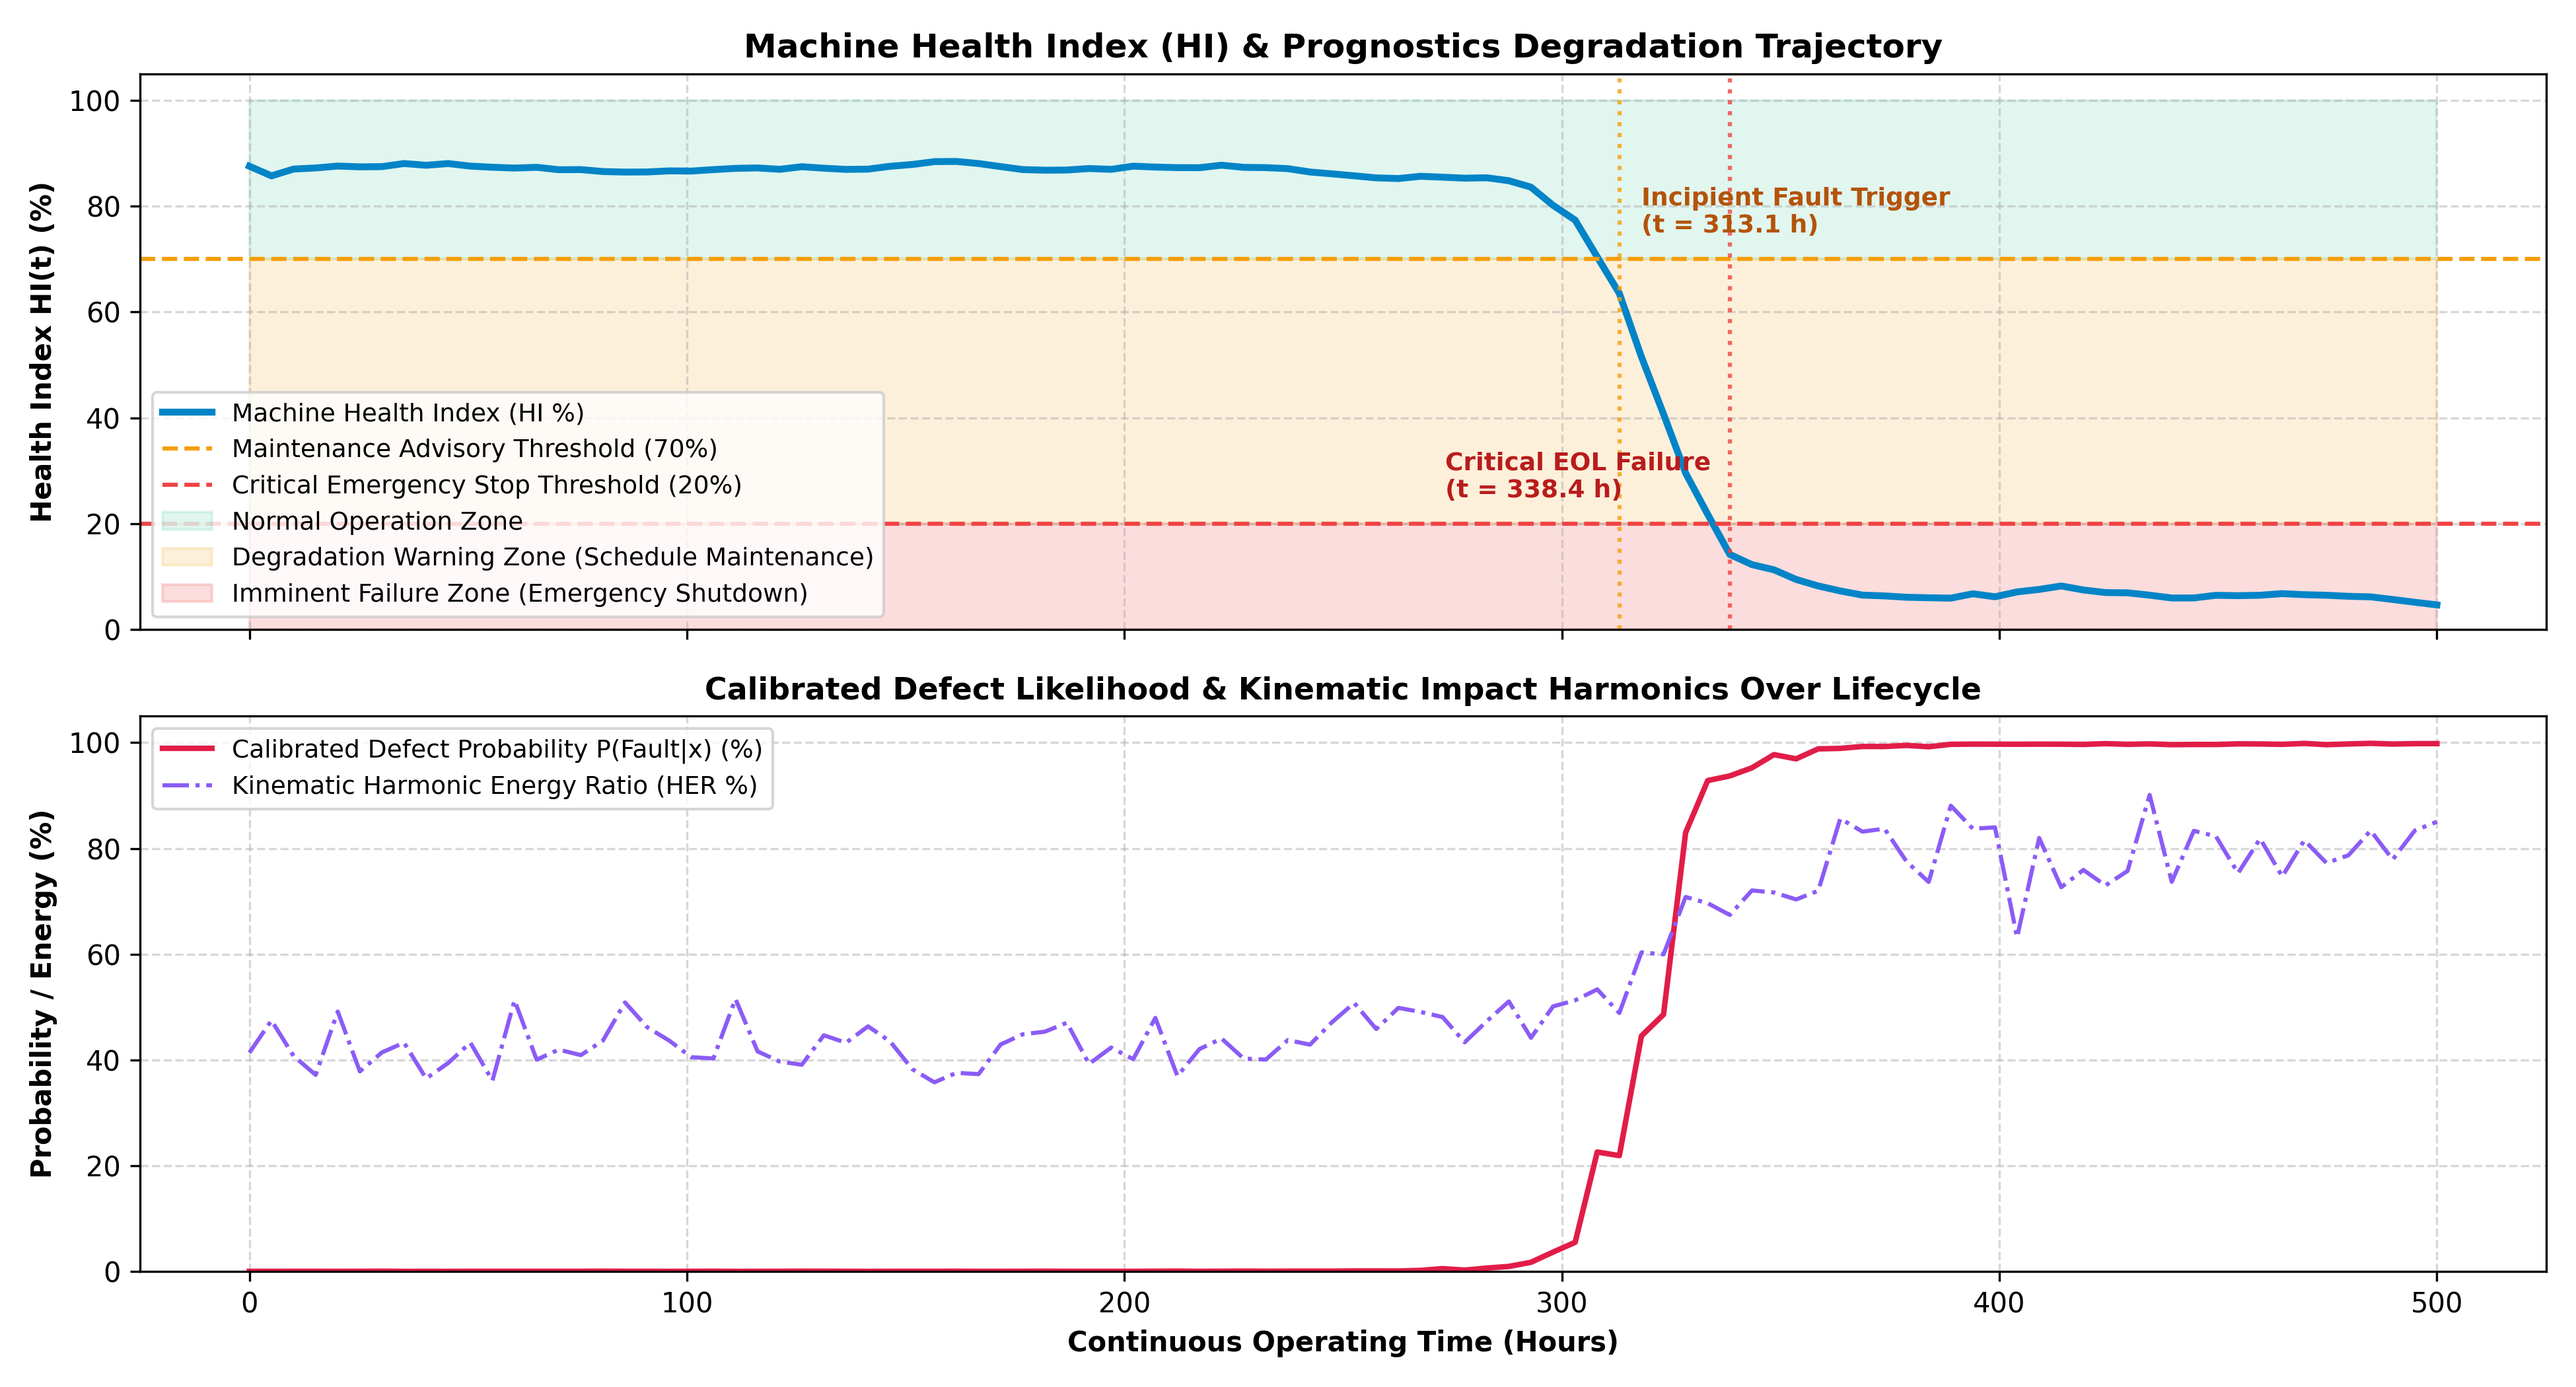
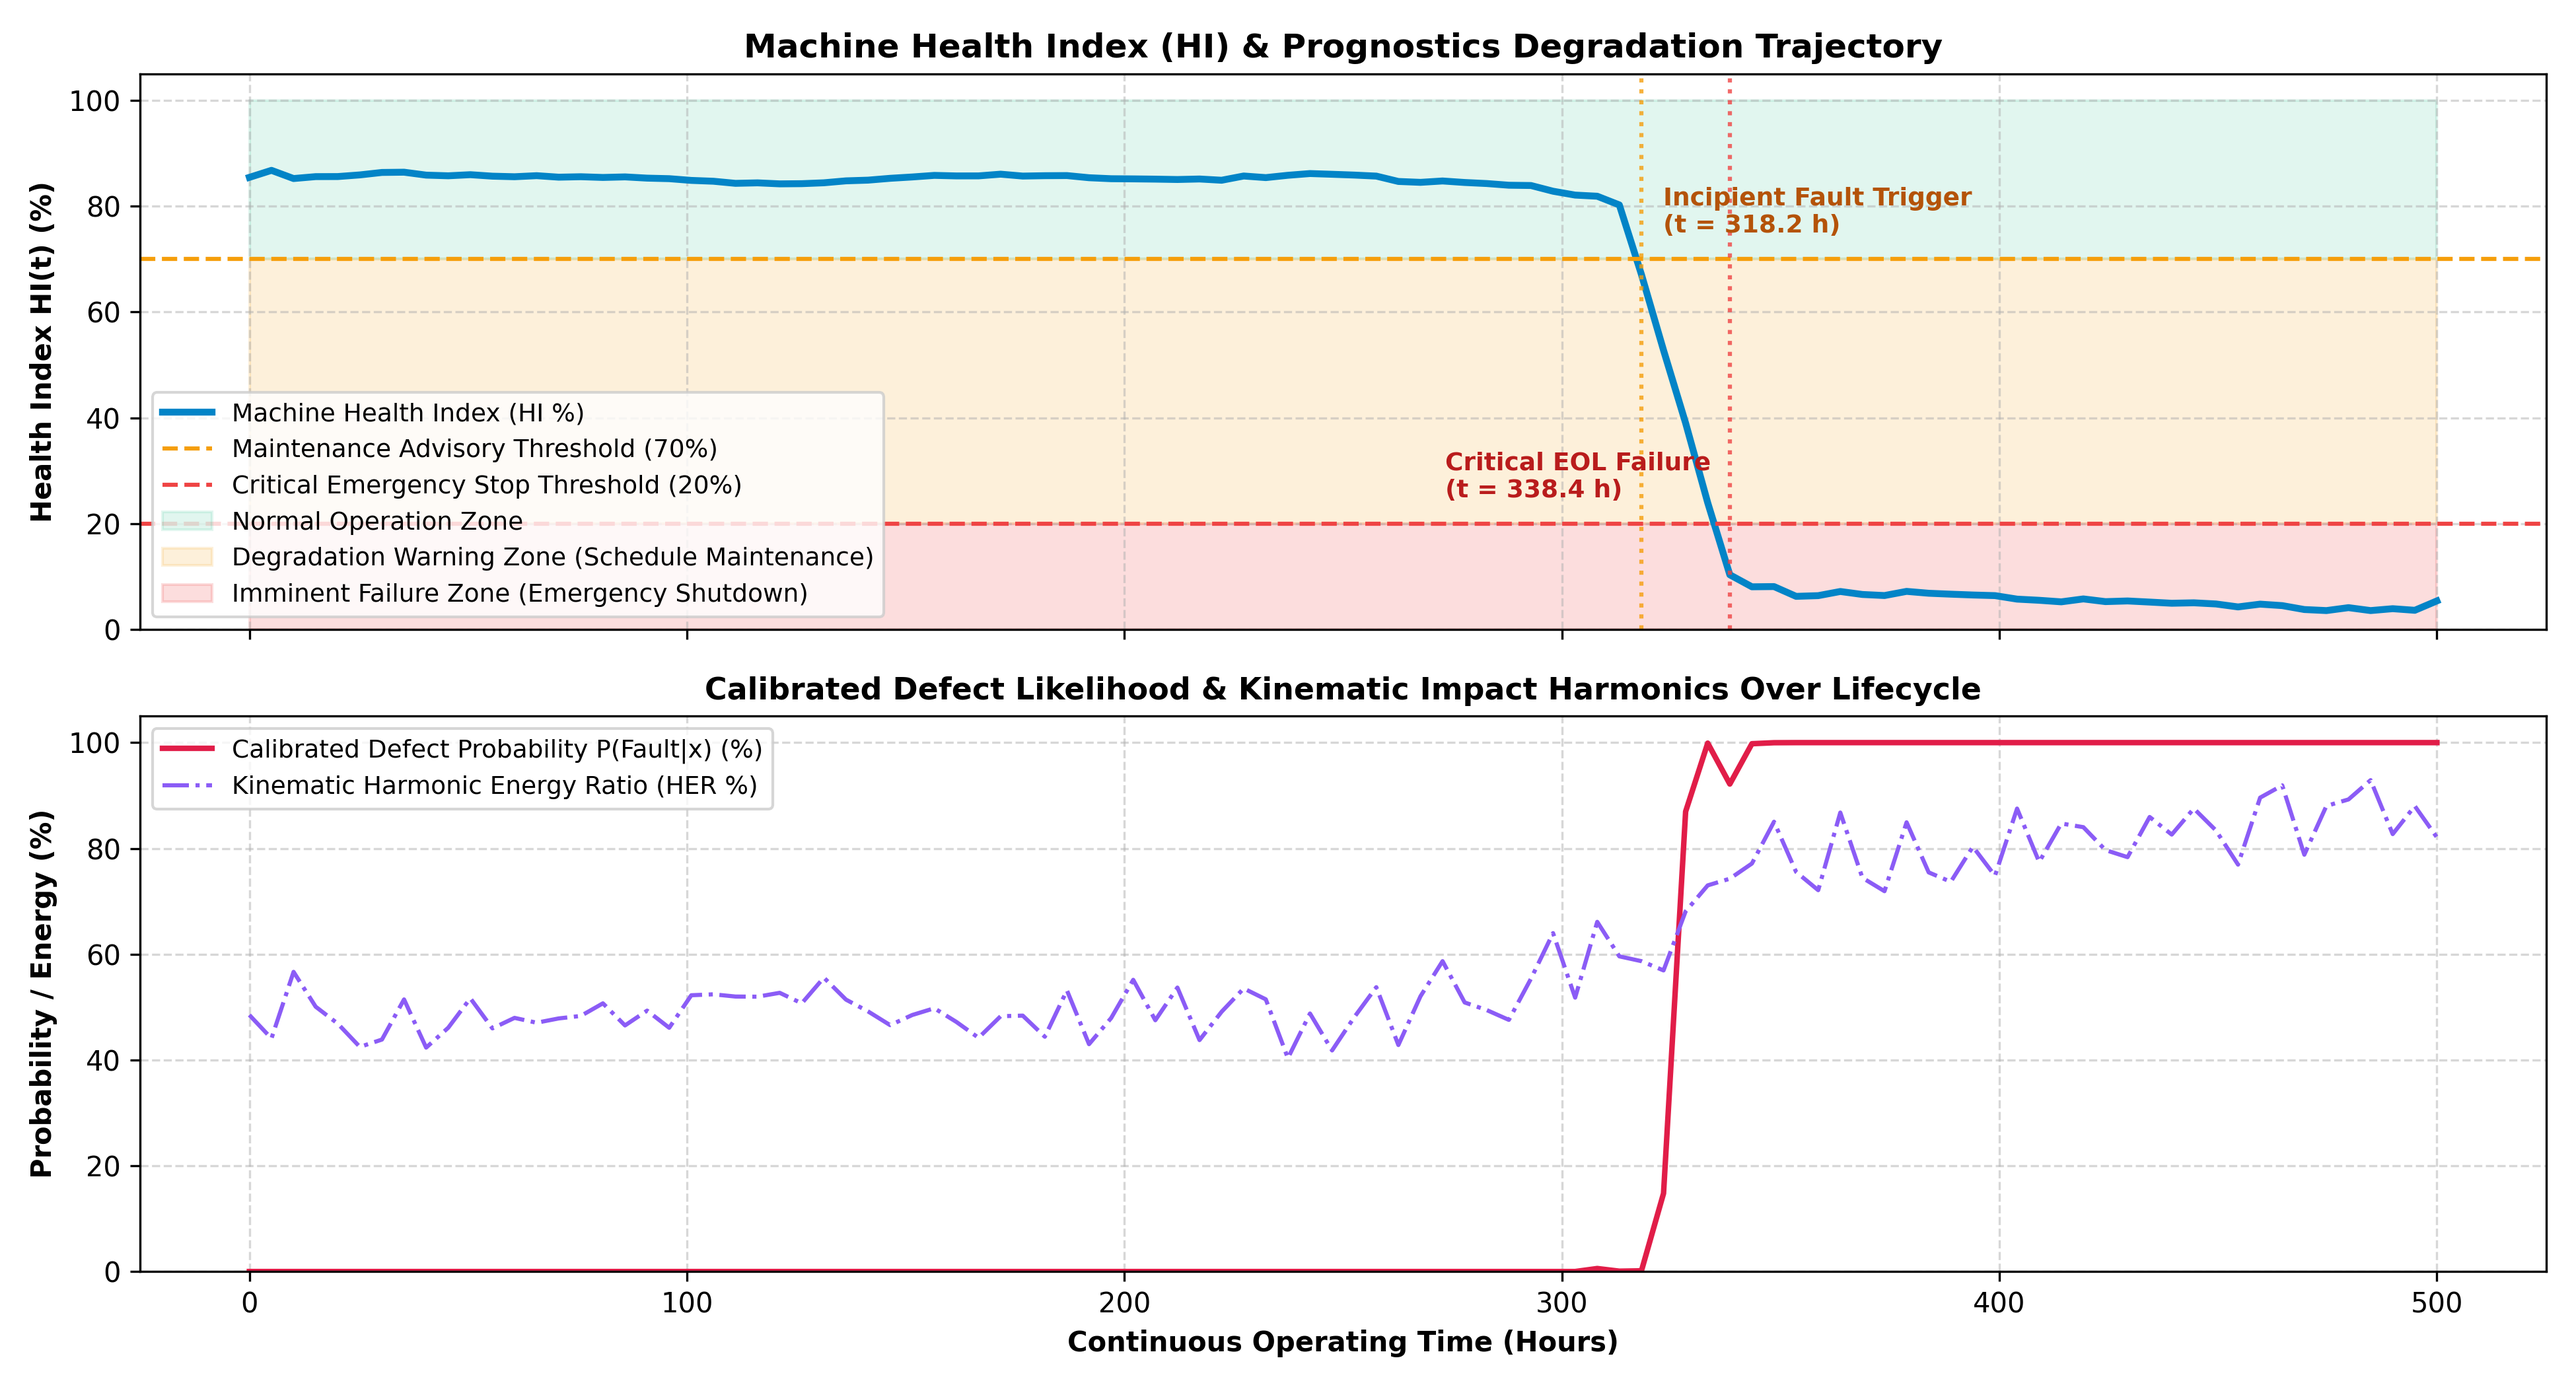
chore(results): regenerate the prognostics simulation report
The saved report predated the simulation disclaimer that the script writes.

diff --git a/results/prognostics_report.md b/results/prognostics_report.md
@@ -2,7 +2,9 @@
 
 ## 1. Executive Summary
 
-The Physics-Augmented 1D-CNN was extended with a **Continuous Health Degradation Index ($HI(t) \in [0, 100\%]$)** and Remaining Useful Life (RUL) estimation engine. The system successfully detected incipient bearing surface spalling at **t = 313.1 hours**, providing a **25.3-hour maintenance advisory window** before catastrophic mechanical failure at **t = 338.4 hours**.
+> **Simulation only.** The degradation trajectory is synthetic (sigmoid blend of healthy and inner-race test windows with onset fixed at t = 320 h); CWRU contains no run-to-failure data. The times below show the Health Index pipeline responding to that injected trajectory and are not a validated RUL prediction.
+
+The Physics-Augmented 1D-CNN was extended with a **Continuous Health Degradation Index ($HI(t) \in [0, 100\%]$)** and Remaining Useful Life (RUL) estimation engine. The system successfully detected incipient bearing surface spalling at **t = 318.2 hours**, providing a **20.2-hour maintenance advisory window** before catastrophic mechanical failure at **t = 338.4 hours**.
 
 ## 2. Mathematical Health Formulation
 
@@ -10,7 +12,7 @@ $$HI(t) = \left[ 0.70 \cdot P(\text{Normal}|\mathbf{x}(t)) + 0.30 \cdot \left(1 
 
 ## 3. Operational Lifespan Milestones
 
-- **Normal Steady State**: 0 to 313.1 operating hours ($HI > 70\%$).
-- **Incipient Fault Advisory**: Triggered at t = 313.1 hours ($20\% < HI \le 70\%$).
+- **Normal Steady State**: 0 to 318.2 operating hours ($HI > 70\%$).
+- **Incipient Fault Advisory**: Triggered at t = 318.2 hours ($20\% < HI \le 70\%$).
 - **Critical Failure EOL**: t = 338.4 hours ($HI \le 20\%$).
-- **Actionable RUL Buffer**: **25.3 hours** available for scheduling replacement parts without unplanned line stoppage.
+- **Actionable RUL Buffer**: **20.2 hours** available for scheduling replacement parts without unplanned line stoppage.
